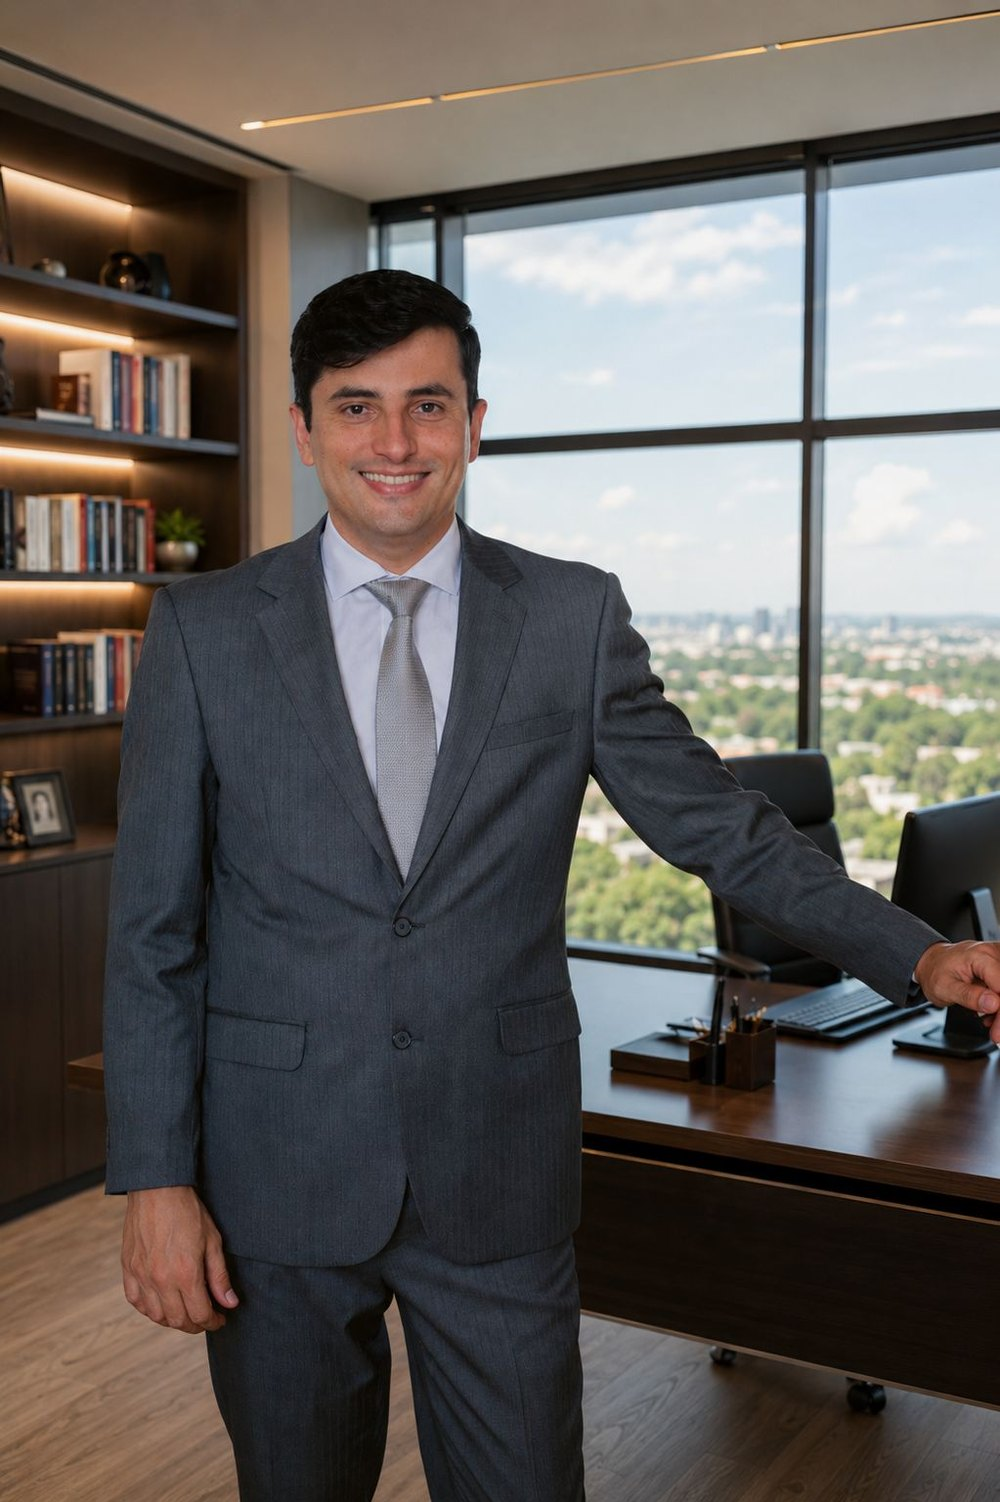
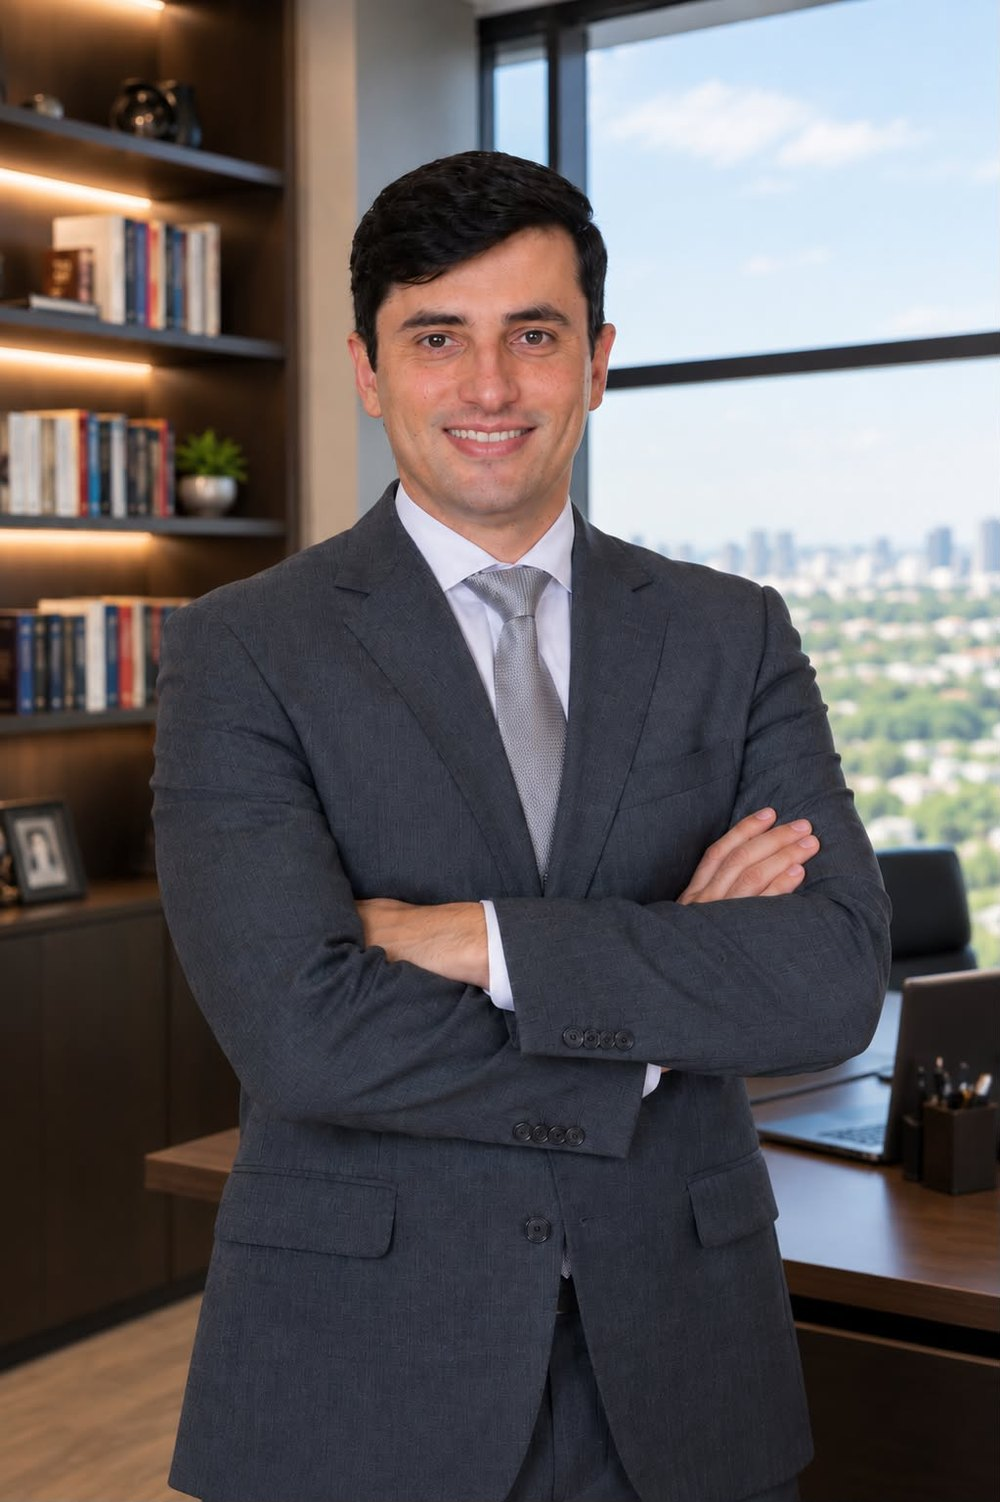
Add files via upload

diff --git a/index.html b/index.html
@@ -913,7 +913,7 @@
         <p>Cada serviço pode ser contratado isoladamente ou combinado em um acompanhamento contínuo — conforme o estágio e a complexidade da sua empresa.</p>
       </div>
       <div class="services-photo reveal">
-        <img src="assets/foto-trabalhando.jpg" alt="Fadrick F. Leveghin trabalhando em seu escritório">
+        <img src="assets/foto-trabalhando.jpg" alt="Fadrick F. Leveghin trabalhando no computador em seu escritório" width="1200" height="900" loading="lazy">
       </div>
     </div>
     <div class="service-category">
